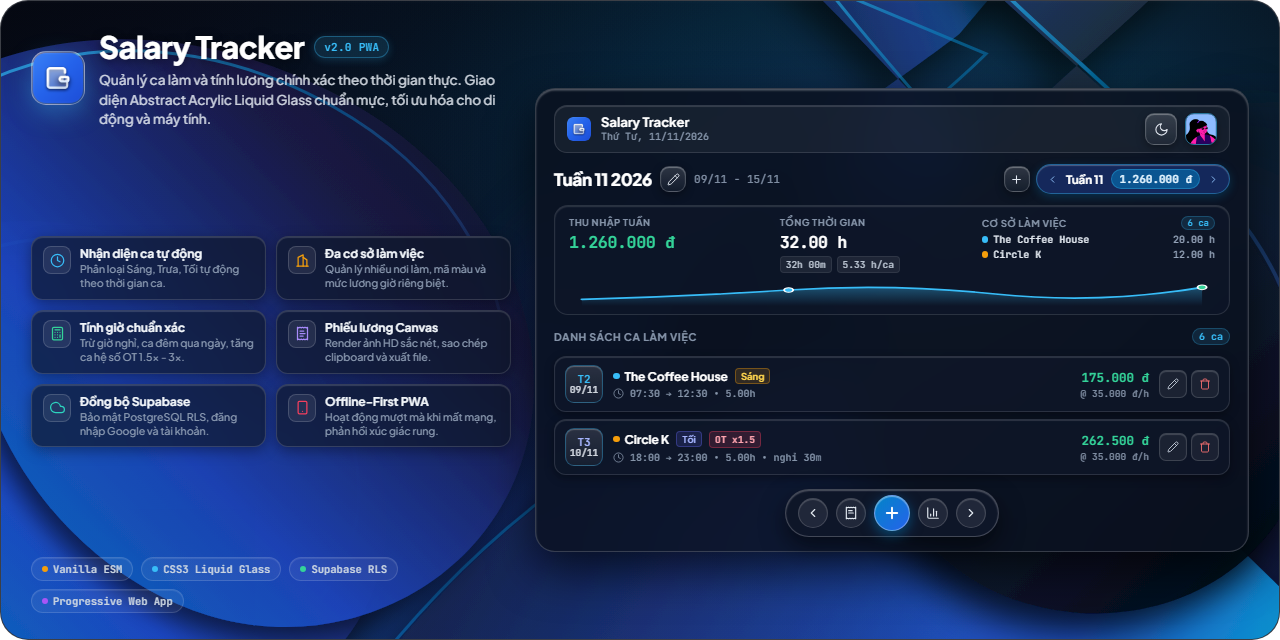
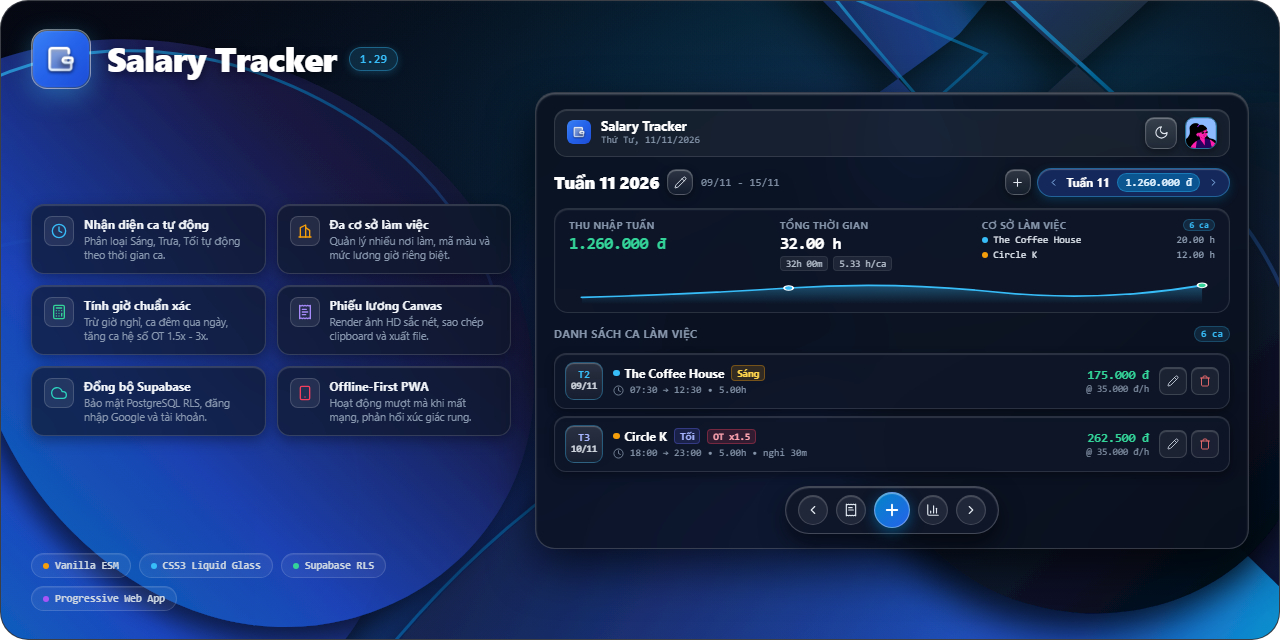
docs: remove description tagline, update version badge to 1.29 and refresh layout

diff --git a/README.md b/README.md
@@ -7,7 +7,7 @@
 **Precision Shift Scheduling and Wage Tracking Progressive Web App**
 
 [![Live Demo](https://img.shields.io/badge/Demo-aoe1920.github.io%2Fsalary--tracker-3b82f6?style=flat-square&logo=googlechrome&logoColor=white)](https://aoe1920.github.io/salary-tracker/)
-[![Version](https://img.shields.io/badge/Release-v2.0.0-10b981?style=flat-square)](https://github.com/aoe1920/salary-tracker/releases)
+[![Version](https://img.shields.io/badge/Release-v1.29-10b981?style=flat-square)](https://github.com/aoe1920/salary-tracker/releases)
 [![Platform](https://img.shields.io/badge/Platform-PWA%20%7C%20iOS%20%7C%20Android%20%7C%20Web-6366f1?style=flat-square&logo=pwa&logoColor=white)](https://aoe1920.github.io/salary-tracker/)
 [![Database](https://img.shields.io/badge/Database-Supabase%20PostgreSQL-3ECF8E?style=flat-square&logo=supabase&logoColor=white)](https://supabase.com)
 [![Architecture](https://img.shields.io/badge/Architecture-Vanilla%20ESM-f59e0b?style=flat-square&logo=javascript&logoColor=black)](https://developer.mozilla.org/)
